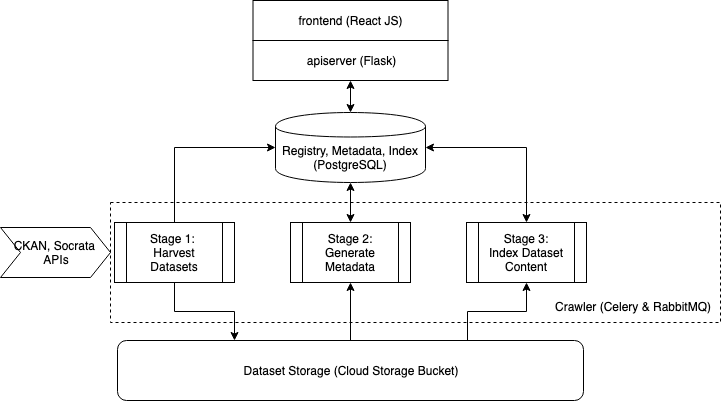
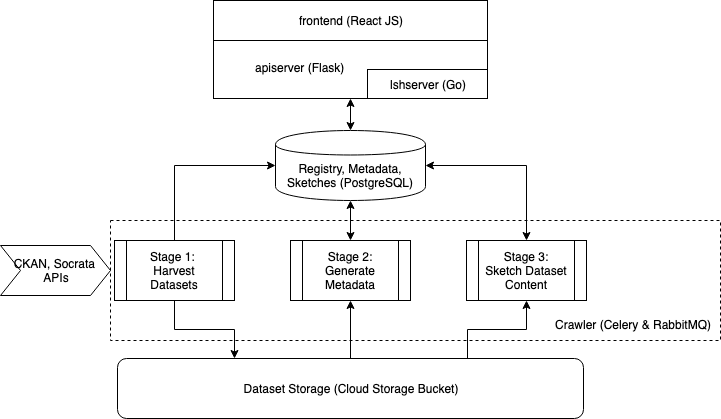
update doc; rename

diff --git a/README.md b/README.md
@@ -17,13 +17,15 @@ features beyond simple keyword search. For example:
 
 ## System Overview
 
-The Find Open Data system has three components:
+The Find Open Data system has the following components:
 
 1. **Frontend**: a React app, located in `frontend`.
 2. **API Server**: a Flask web server, located in `apiserver`.
-3. **Crawler**: a set of [Celery](https://docs.celeryproject.org/en/latest/userguide/tasks.html) tasks, located in `crawler`. 
+3. **LSH Server**: a Go web server, located in `lshserver`.
+4. **Crawler**: a set of [Celery](https://docs.celeryproject.org/en/latest/userguide/tasks.html) tasks, located in `crawler`. 
 
-Both the Frontend and the API Server can be deployed to 
+The Frontend, the API Server, and the LSH Server can be 
+deployed to 
 [Google App Engine (standard)](https://cloud.google.com/appengine/docs/standard/).
 
 We also use two external storage systems for persistence:
@@ -156,8 +158,12 @@ annotates them with entities for enrichment.
 The metadata is stored in table `findopendata.packages`, which is 
 also used by the API server to serve the frontend.
 
-#### Index Dataset Content
+#### Sketch Dataset Content
 
-Run `index_dataset_content.py` to start tasks for indexing dataset
-content (i.e., data values, columns, and records) and make them
-available for content-based search.
+Run `sketch_dataset_content.py` to start tasks for creating 
+sketches (e.g., 
+[MinHash](https://github.com/ekzhu/datasketch),
+samples, data types, etc.) of dataset
+content (i.e., data values, columns, and records).
+The sketches will be used for content-based search such as
+finding joinable tables.
